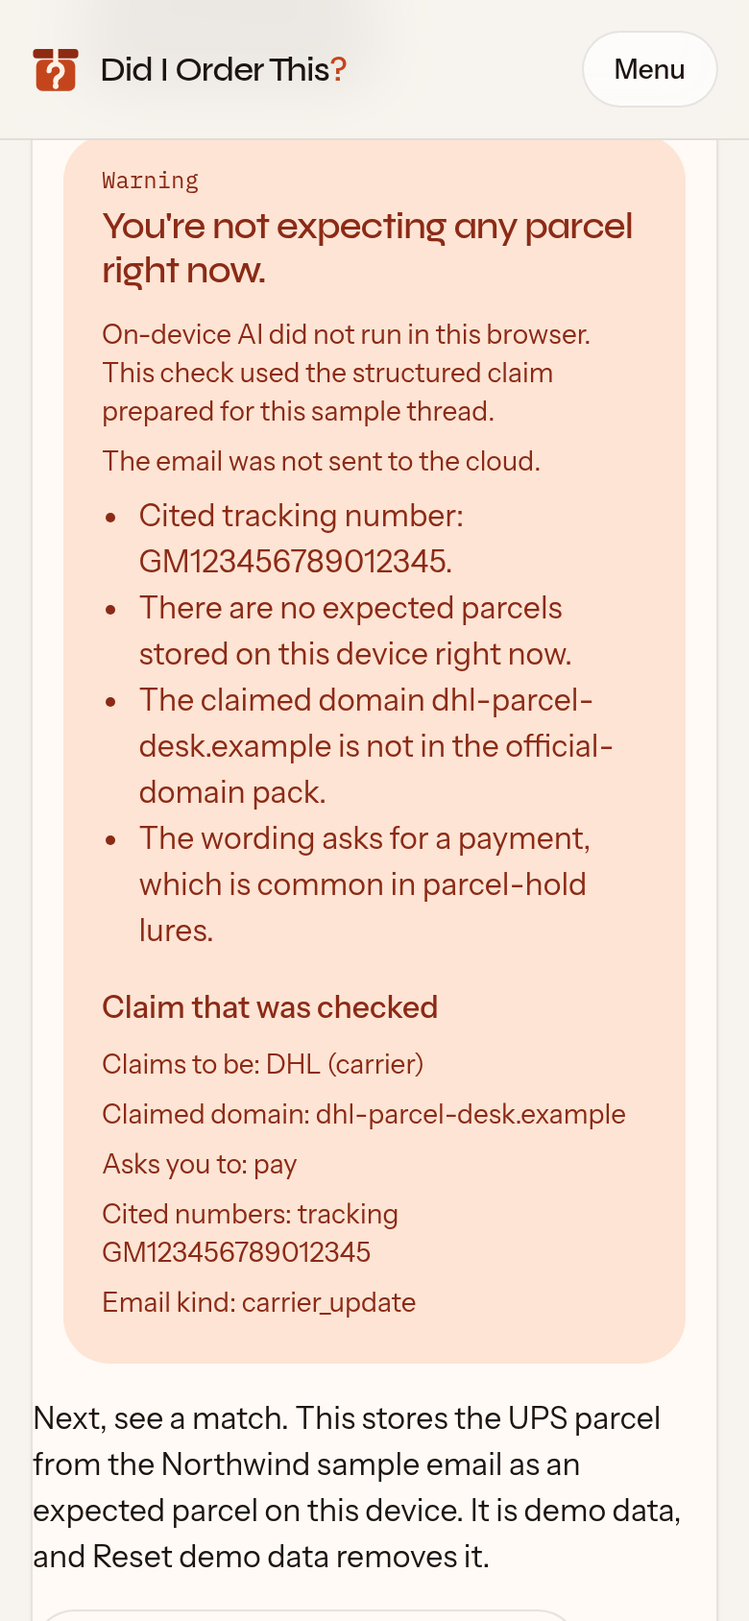
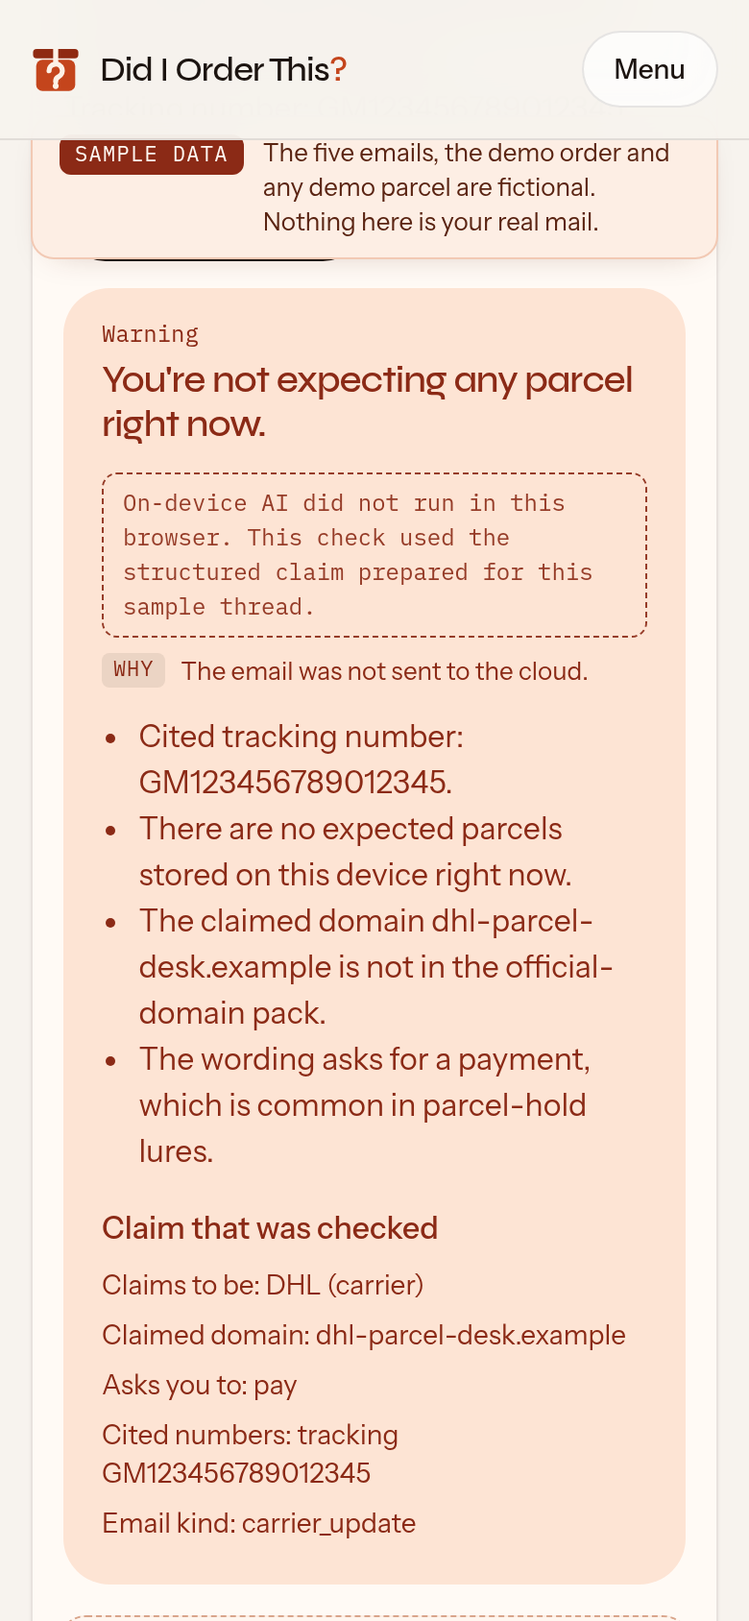
Screenshots retaken after UI-NEXT; README, TESTING and UI-NEXT updated with new run ids, Lighthouse, test count and two new UI items

diff --git a/README.md b/README.md
@@ -3,7 +3,7 @@
 **For judges:** open the [sample inbox](https://did-i-order-this.vercel.app/app/), click the first thread (**DHL Express Desk**, **Your parcel is held. Pay the release fee.**), click **Check this email**, and read the verdict: **You're not expecting any parcel right now.** Then click **Load the matching shipment demo** and check the UPS email: **This tracking number matches a shipment you are expecting.** No login.
 
 <p align="center">
-  <img src="docs/images/sample-verdict-prepared.png" width="260" alt="The live sample inbox at 390-pixel width after Do not send: Warning, You're not expecting any parcel right now, with the note that on-device AI did not run and the structured claim prepared for this sample thread was used, plus the reasons and the claim that was checked.">
+  <img src="docs/images/sample-verdict-prepared.png" width="260" alt="The live sample inbox at 390-pixel width after Do not send, under the Sample data bar: Warning, You're not expecting any parcel right now, with the note that on-device AI did not run and the structured claim prepared for this sample thread was used, plus the reasons and the claim that was checked.">
 </p>
 
 **Check a delivery or billing email against the orders and tracking numbers on your own device, before you click.**
@@ -24,7 +24,7 @@ A parcel or billing email can ask you to pay a fee or open a link, and a fake DH
 
 This is the live app at [did-i-order-this.vercel.app/app](https://did-i-order-this.vercel.app/app/). No account and nothing to install. It starts with demo data: **1 order and 0 expected parcels are stored on this device.** If the count is different, click **Reset demo data**.
 
-1. Click the first thread, **DHL Express Desk**, **Your parcel is held. Pay the release fee.**, then **Check this email**.
+1. Click the first thread, **DHL Express Desk**, **Your parcel is held. Pay the release fee.** (on a phone the threads are one row you can swipe), then **Check this email**.
 2. In Chrome with on-device AI (Gemini Nano) there is no dialog. Everywhere else (for example phones, Firefox, Safari, or desktop Chrome without Nano) a dialog asks **Check this email in the cloud?** and says the cloud uses Google's free Gemini tier, so Google may keep this text and people at Google may review it. Click **Check in the cloud** or **Do not send**.
 3. You see **Warning** and **You're not expecting any parcel right now.** The line under it says how the email was read:
    - **Checked on this device** or **Checked in the cloud** when the AI read it.
@@ -42,13 +42,13 @@ To check the code itself: `npm ci`, then `npm run verify`. It prints `PASS` or `
 
 ## Proof It's Real
 
-- **On-device run on the current build, public GitHub runner:** [nano-film run 43950308139](https://github.com/ohjay-official/nano-film/actions/runs/43950308139) (16 Nov 2026, 21:31 Africa/Lagos, production at `9c6e0cc`) loaded the live `/app/` page in Chrome 157.0.8103.50 with Gemini Nano and got **Checked on this device** (`inferenceSource` `on_device`), **Warning**, **You're not expecting any parcel right now.**, and no cloud consent. Earlier runs: [43947306478](https://github.com/ohjay-official/nano-film/actions/runs/43947306478) (16 Nov, `9098021`), [43682923396](https://github.com/ohjay-official/nano-film/actions/runs/43682923396) (15 Nov) and [43219012008](https://github.com/ohjay-official/nano-film/actions/runs/43219012008) (12 Nov). Private 2 vCPU runners cannot run Nano, so the proof runs from the public `ohjay-official/nano-film` repo; this repo keeps a copy of the workflow at `.github/workflows/on-device-demo.yml`.
-- **Extension on-device run, public GitHub runner:** [nano-film run 43952581780](https://github.com/ohjay-official/nano-film/actions/runs/43952581780) (16 Nov 2026, 21:44 Africa/Lagos, production at `9c6e0cc`) downloaded the live judge zip, loaded it unpacked into Chrome 157.0.8103.50 with Gemini Nano, opened the side panel on a local Gmail-thread fixture, and got **Checked on this device** (`on_device`), the same headline, and no cloud consent. The runner adds `http://127.0.0.1:8123/*` to the installed manifest's content script matches because it cannot sign into Gmail; the JavaScript in the zip is unchanged. One run in between ([43950314547](https://github.com/ohjay-official/nano-film/actions/runs/43950314547)) failed before the extension loaded, because Chrome on that runner could not start a Nano session; the rerun passed. Earlier passes: [43947314820](https://github.com/ohjay-official/nano-film/actions/runs/43947314820) (16 Nov) and [43685102643](https://github.com/ohjay-official/nano-film/actions/runs/43685102643) (15 Nov).
+- **On-device run on the current build, public GitHub runner:** [nano-film run 43968899989](https://github.com/ohjay-official/nano-film/actions/runs/43968899989) (16 Nov 2026, 23:20 Africa/Lagos, production at `f87d165`, after the UI-NEXT commits) loaded the live `/app/` page in Chrome 157.0.8103.50 with Gemini Nano and got **Checked on this device** (`inferenceSource` `on_device`), **Warning**, **You're not expecting any parcel right now.**, and no cloud consent. The run just before it ([43967837755](https://github.com/ohjay-official/nano-film/actions/runs/43967837755)) failed before the page check, because Chrome on that runner could not start a Nano session; the rerun passed. Earlier runs: [43950308139](https://github.com/ohjay-official/nano-film/actions/runs/43950308139) (16 Nov, `9c6e0cc`), [43947306478](https://github.com/ohjay-official/nano-film/actions/runs/43947306478) (16 Nov, `9098021`), [43682923396](https://github.com/ohjay-official/nano-film/actions/runs/43682923396) (15 Nov) and [43219012008](https://github.com/ohjay-official/nano-film/actions/runs/43219012008) (12 Nov). Private 2 vCPU runners cannot run Nano, so the proof runs from the public `ohjay-official/nano-film` repo; this repo keeps a copy of the workflow at `.github/workflows/on-device-demo.yml`.
+- **Extension on-device run, public GitHub runner:** [nano-film run 43967844787](https://github.com/ohjay-official/nano-film/actions/runs/43967844787) (16 Nov 2026, 23:15 Africa/Lagos, production at `f87d165`) downloaded the live judge zip, loaded it unpacked into Chrome 157.0.8103.50 with Gemini Nano, opened the side panel on a local Gmail-thread fixture, and got **Checked on this device** (`on_device`), the same headline, and no cloud consent. The runner adds `http://127.0.0.1:8123/*` to the installed manifest's content script matches because it cannot sign into Gmail; the JavaScript in the zip is unchanged. Earlier passes: [43952581780](https://github.com/ohjay-official/nano-film/actions/runs/43952581780) (16 Nov, `9c6e0cc`, after one runner that could not start Nano, [43950314547](https://github.com/ohjay-official/nano-film/actions/runs/43950314547)), [43947314820](https://github.com/ohjay-official/nano-film/actions/runs/43947314820) (16 Nov) and [43685102643](https://github.com/ohjay-official/nano-film/actions/runs/43685102643) (15 Nov).
 - **What Nano actually returned** in run 43947306478: the display name **DHL Express Desk** as the domain and the fee **$2.99** as the only cited number, missing the tracking number. The verdict was still right because the claim said carrier and no parcel was expected. Since then, `reconcileClaim()` in `packages/core/src/reconcile.ts` fills both gaps from the email text in code (sender domain from the From line, tracking-shaped numbers from the body), so the UPS match no longer depends on the model spotting the number. In run 43950308139, on the build with `reconcileClaim()`, the checked claim showed the domain `dhl-parcel-desk.example` and the tracking number GM123456789012345.
 - **Cloud check on the current build:** not recorded yet. The build machine's automated Chrome is rejected by App Check (reCAPTCHA Enterprise), and the page then shows the prepared-claim note with **The cloud check could not run. This page could not prove it is the real site (App Check). Reload the page and try again.** A real-phone cloud test is pending.
-- **Tests:** 161 unit tests (core 66, web 82, extension 13), re-run 16 Nov 2026 (Africa/Lagos). `npm test` runs them. Core coverage the same day: 96.95% statements (446/460) and 89.61% branches (345/385), gated at 95% statements and 85% branches in `packages/core/vitest.config.ts`.
+- **Tests:** 164 unit tests (core 66, web 85, extension 13), re-run 16 Nov 2026 (Africa/Lagos). `npm test` runs them. Core coverage the same day: 96.95% statements (446/460) and 89.61% branches (345/385), gated at 95% statements and 85% branches in `packages/core/vitest.config.ts`.
 - **CI:** `.github/workflows/ci.yml` runs `npm run verify -- --offline` on every push to `main` and on pull requests.
-- **Lighthouse** (mobile, production `9c6e0cc`, 16 Nov 2026, run from the build machine): Best Practices and SEO 100 on all 9 routes; Accessibility 100 on 8 routes and 91 on `/features/` (a colour-contrast and an ARIA-label issue, handed to the UI owner); Performance 80 on the home page (87 in an earlier run the same day; the home page script blocks the main thread for about 0.8 seconds), 99 or 100 on the other 8.
+- **Lighthouse** (mobile, production `c94c806`, 16 Nov 2026, run from the build machine): Accessibility, Best Practices and SEO 100 on all 9 routes; Performance 99 or 100 on all 9 (home 99, Total Blocking Time 20 ms). Earlier the same day the home page scored 80 and `/features/` Accessibility 91; both were fixed by the UI owner.
 - **No real users yet.** Three testers are scheduled for 26 to 28 Nov 2026.
 
 ## What's New Here
@@ -108,7 +108,7 @@ npm run verify
 npm run verify -- --offline
 ```
 
-`npm run verify` checks the Node version, then runs the unit tests, the core coverage gate, typecheck, lint, a guard that product code must not call Chrome's Prompt API directly, the web and extension builds, the extension zip, a secrets scan of tracked files and git history, a bundle scan for App Check debug tokens, a dependency audit, and live-site checks (routes, the zip, and security headers). Each line prints `PASS` or `FAIL`. On 16 Nov 2026 (Africa/Lagos), a fresh clone of `main` at `9c6e0cc` ran `npm ci` plus `npm run verify` in 31 seconds on Node 24.22.1 and printed PASS on all 19 checks (Node 22.22.0 gave the same 19 PASS on `9098021`).
+`npm run verify` checks the Node version, then runs the unit tests, the core coverage gate, typecheck, lint, a guard that product code must not call Chrome's Prompt API directly, the web and extension builds, the extension zip, a secrets scan of tracked files and git history, a bundle scan for App Check debug tokens, a dependency audit, and live-site checks (routes, the zip, and security headers). Each line prints `PASS` or `FAIL`. On 16 Nov 2026 (Africa/Lagos), a fresh clone of `main` at `c94c806` ran `npm ci` plus `npm run verify` in 38 seconds on Node 22.22.3 and printed PASS on all 19 checks.
 
 
 </details>
@@ -158,8 +158,8 @@ Permissions: `storage` and `sidePanel` only, plus a content script on `https://m
 
 <p align="center">
   <img src="docs/images/home.png" width="160" alt="The live home page at 390-pixel width, with the headline Got a parcel email? See if it's yours, and a Check field.">
-  <img src="docs/images/sample-inbox.png" width="160" alt="The sample inbox list on the live site at 390-pixel width, showing five demo threads and the line 1 order and 0 expected parcels are stored on this device.">
-  <img src="docs/images/cloud-consent.png" width="160" alt="The cloud consent dialog on the live sample inbox at 390-pixel width, titled Check this email in the cloud, with Check in the cloud and Do not send buttons.">
+  <img src="docs/images/sample-inbox.png" width="160" alt="The sample inbox on the live site at 390-pixel width: the Sample data bar, the line 1 order and 0 expected parcels are stored on this device, a swipeable row of threads with DHL Express Desk open, and the Check this email button on the first screen.">
+  <img src="docs/images/cloud-consent.png" width="160" alt="The cloud consent dialog on the live sample inbox at 390-pixel width, titled Check this email in the cloud, with Check in the cloud and Do not send buttons; keyboard focus starts on Do not send.">
   <img src="docs/images/ups-match-prepared.png" width="160" alt="The UPS sample email after Load the matching shipment demo, at 390-pixel width: Safe, This tracking number matches a shipment you are expecting, using the structured claim prepared for this sample thread.">
 </p>
 
@@ -251,7 +251,7 @@ git log --reverse --format='%h %ad %s' --date=iso | head -3
   - **Demonstration video:** required on the Devpost form, at most 3 minutes, on YouTube. `TBD-post-build: film URL`
   - **No production secrets in the repo, form, or testing instructions:** `.env.example` uses placeholders only; `npm run verify` scans for secrets.
 
-- **AI code:** Grok Bot wrote the product code, the tests, the docs, and the verify pipeline, directed by Oh-Jay. Claude did the planning on 11 and 12 Nov 2026, and Claude Opus 5.5 landed the v7 UI commits on `main` on 15 Nov 2026 (`16fc66e`, `b1f076d`, `8bb5936`, each with a Co-Authored-By line); further UI and UX work is Claude's. Oh-Jay chose the idea, wrote the product and design briefs, made the product decisions, and reviewed every build on his phone.
+- **AI code:** Grok Bot wrote the product code, the tests, the docs, and the verify pipeline, directed by Oh-Jay. Claude did the planning on 11 and 12 Nov 2026, and Claude Opus 5.5 landed the v7 UI commits on `main` on 15 Nov 2026 (`16fc66e`, `b1f076d`, `8bb5936`) and the ten UI-NEXT commits on 16 Nov 2026 (`184f42f` to `f87d165`), each with a Co-Authored-By line; UI and UX work is Claude's. Oh-Jay chose the idea, wrote the product and design briefs, made the product decisions, and reviewed every build on his phone.
 - **Earlier work reused:** the on-device warm-up approach in `e2e/` follows Oh-Jay's own `nano-probe` test from 12 Nov 2026. Photos, the globe texture, the hands, and the freight clip are media files Oh-Jay supplied. The CSS follows parts of the unslop design checklist by Damir Sokolovsky (CC BY 4.0), credited in `web/src/styles-v6.css`.
 - **The live site will stay up through judging and after.**
 
@@ -269,7 +269,7 @@ Services: Firebase AI Logic with the Gemini Developer API (model `gemini-3.5-fla
 - **12 Nov 2026 (12 commits):** core verdict engine and tests; order-history import, limited check, Chrome extension, and App Check providers; the on-device workflow and Nano warm-up; first multi-page site, rebuilt toward a live checker.
 - **13 and 14 Nov 2026:** no commits.
 - **15 Nov 2026 (15 commits, 3 of them Claude's UI):** v6 landing (globe, freight scroll, night footer) and VP9 video fallback; v6.1 real media and footer; v6.2 logo, favicons, per-page meta and OG images, JSON-LD, privacy policy, Vercel Analytics and Speed Insights, client cloud budget, contrast fixes, faster hero; backend pass: extension messaging checks and fewer permissions, judge zip, plain-language AI errors, the free-tier review notice on the consent dialog, CSP and security headers, lint, more tests with a coverage gate, `npm run verify`; README and the extension on-device proof citation; Claude's v7 UI commits.
-- **16 Nov 2026:** judge-demo fixes (fail fast without an on-device model, client cloud cap raised to 10 a minute, tab-session memory for a cloud yes, the matching shipment demo loader, the prepared-claim fallback on sample threads, a 20-second cloud timeout, the `/extension-demo/` test page, `docs/TESTING.md`); Node 22.22 as the minimum; this README; the pre-submit test run and its fixes (lookalike-domain warning, claim gap filling, 20,000-character model input cap, consent dialog keyboard); a pre-submit QA pass that stopped a re-imported order history from adding duplicate orders and shipments, and fixed the privacy policy to name the real consent button.
+- **16 Nov 2026:** judge-demo fixes (fail fast without an on-device model, client cloud cap raised to 10 a minute, tab-session memory for a cloud yes, the matching shipment demo loader, the prepared-claim fallback on sample threads, a 20-second cloud timeout, the `/extension-demo/` test page, `docs/TESTING.md`); Node 22.22 as the minimum; this README; the pre-submit test run and its fixes (lookalike-domain warning, claim gap filling, 20,000-character model input cap, consent dialog keyboard); a pre-submit QA pass that stopped a re-imported order history from adding duplicate orders and shipments, and fixed the privacy policy to name the real consent button; Claude's ten UI-NEXT commits (Sample data bar, swipeable thread row on phones, styled notes and focus ring, extension test page link and style, Real UPS chip note, `/features/` contrast, faster home page, consent mockups matching the real dialog); a fix so the homepage Real UPS chip keeps its demo shipment on a brand-new device.
 
 </details>
 

diff --git a/docs/TESTING.md b/docs/TESTING.md
@@ -1,6 +1,6 @@
 # Testing Did I Order This?
 
-Do-this, see-this steps for judges and testers. Every quoted string below was read off the screen on 16 Nov 2026 (Africa/Lagos), first in a local build and then again on the live site after the merge (`72f7212`), unless the step says otherwise. Steps 1 (Path C) and 2 were walked again on the live site at `9c6e0cc` the same evening, at 390 pixels, with the same strings. No keys, tokens or accounts are needed.
+Do-this, see-this steps for judges and testers. Every quoted string below was read off the screen on 16 Nov 2026 (Africa/Lagos), first in a local build and then again on the live site after the merge (`72f7212`), unless the step says otherwise. Steps 1 (Path C) and 2 were walked again on the live site at `9c6e0cc` the same evening, at 390 pixels, with the same strings, and again after the UI update at `f87d165` (16 Nov, 23:00 to 23:30 Africa/Lagos). Section 4 was re-checked at `c94c806`. No keys, tokens or accounts are needed.
 
 Live site: https://did-i-order-this.vercel.app (sample inbox at `/app/`).
 
@@ -8,13 +8,13 @@ Live site: https://did-i-order-this.vercel.app (sample inbox at `/app/`).
 
 Open https://did-i-order-this.vercel.app/app/. The header says **1 order and 0 expected parcels are stored on this device.** If it shows a different count (for example after you tried the homepage chips), click **Reset demo data** first.
 
-1. Click the first thread, **DHL Express Desk**, **Your parcel is held. Pay the release fee.**, then click **Check this email**.
+1. Click the first thread, **DHL Express Desk**, **Your parcel is held. Pay the release fee.**, then click **Check this email**. On a phone the threads are one row you can swipe sideways, and **Check this email** is on the first screen; the verdict appears just below it, so scroll down a little.
 2. What happens next depends on your browser. Pick the path that matches.
 
 ### Path A: Chrome with on-device AI (Gemini Nano)
 
 - No dialog appears. You see **Warning**, **You're not expecting any parcel right now.**, and **Checked on this device**.
-- Recorded on the current build on a GitHub runner with Nano: nano-film run 43950308139 (16 Nov 2026, production `9c6e0cc`). The machine used for the other steps has no Gemini Nano.
+- Recorded on the current build on a GitHub runner with Nano: nano-film run 43968899989 (16 Nov 2026, production `f87d165`). The machine used for the other steps has no Gemini Nano.
 - To turn on-device AI on in desktop Chrome: the hackathon FAQ says to open `chrome://flags`, search for **Gemma 4 for Built-in AI**, enable it, and relaunch. The runner instead enables `chrome://flags/#optimization-guide-on-device-model` and `chrome://flags/#prompt-api-for-gemini-nano`. `chrome://on-device-internals` shows whether the model is ready. Chrome's hardware requirements apply.
 
 ### Path B: no on-device AI, you allow the cloud
@@ -55,7 +55,7 @@ After any result in step 1, a card says **Next, see a match. This stores the UPS
 
 3. Click **Load the matching shipment demo**. The UPS thread opens, the header says **1 order and 1 expected parcel are stored on this device.**, and a note says **Matching shipment demo loaded. UPS 1Z999AA10123456784 is now an expected parcel on this device (demo data). Check this UPS email next.**
 4. Click **Check this email**. Expect **Safe** and **This tracking number matches a shipment you are expecting.**
-5. Open the last thread, **Duty payment required for your shipment**, and check it. Expect **Warning** and **This tracking number is not one of your shipments.**
+5. Open the last thread, **Duty payment required for your shipment** (on a phone, swipe the thread row to reach it), and check it. Expect **Warning** and **This tracking number is not one of your shipments.**
 6. Optional: **Streamhut Billing**, **Your Streamhut invoice is due** gives **Neutral** and **You have no history with this sender.**
 7. Click **Reset demo data**. You see **Demo data reset. There are no expected parcels.** and the header is back to **1 order and 0 expected parcels are stored on this device.**
 
@@ -74,7 +74,7 @@ Paste an email that is not one of the samples and click **Check pasted email**. 
 On https://did-i-order-this.vercel.app, in a browser without on-device AI and with the default "on this device" mode:
 
 - **Fake DHL**: **You're not expecting any parcel right now.** with **On-device AI did not run in this browser. This check used the structured claim prepared for this sample.**
-- **Real UPS**: the chip first stores the matching UPS shipment. Expect **This tracking number matches a shipment you are expecting.** and **Demo data: before this check, the chip saved UPS parcel 1Z999AA10123456784 from the Northwind sample as an expected parcel on this device. Reset demo data in the sample inbox removes it.**
+- **Real UPS**: the chip first stores the matching UPS shipment. This works even as the very first tap on a brand-new device (fixed in `c94c806`). Expect **This tracking number matches a shipment you are expecting.** and **Demo data: before this check, the chip saved UPS parcel 1Z999AA10123456784 from the Northwind sample as an expected parcel on this device. Reset demo data in the sample inbox removes it.**
 - After **Real UPS**, the **Fake DHL** chip says **This tracking number is not one of your shipments.**, because a parcel is now expected. **Reset demo data** in the sample inbox brings back the first headline.
 
 ## 5. Chrome extension (desktop Chrome 138 or later)
@@ -82,7 +82,7 @@ On https://did-i-order-this.vercel.app, in a browser without on-device AI and wi
 1. Download https://did-i-order-this.vercel.app/downloads/did-i-order-this-extension-0.1.0.zip and unzip it. If you downloaded it before 16 Nov 2026, download it again: the test page below needs the new copy.
 2. Open `chrome://extensions`, turn on **Developer mode**, click **Load unpacked**, and pick the inner `did-i-order-this-extension` folder.
 3. Open https://did-i-order-this.vercel.app/extension-demo/. It is labelled **Extension test fixture.** and says it is not Gmail. Open the extension's side panel from the toolbar. It shows the open sample email and **Check this email**. The buttons on the page switch between the five sample emails.
-4. With Gemini Nano you should see **Checked on this device** and the verdict (recorded on a runner with Nano on 16 Nov 2026 against the live zip, nano-film run 43952581780, using a local copy of this kind of page).
+4. With Gemini Nano you should see **Checked on this device** and the verdict (recorded on a runner with Nano on 16 Nov 2026 against the live zip, nano-film run 43967844787, using a local copy of this kind of page).
 5. Without Nano you see **Error** and **The AI read could not run. On-device AI is not available in this browser. This extension does not send mail to the cloud. Open https://did-i-order-this.vercel.app to check in the cloud after you agree, or run a limited check here.** Then **Run a limited check (no AI)** gives the limited check.
 
 The side panel and fixture were run on this box with the extension loaded unpacked and the fixture served at its live address. The extension is built to read an open Gmail thread at `mail.google.com`; a signed-in Gmail thread was not tested on this machine.

diff --git a/docs/UI-NEXT.md b/docs/UI-NEXT.md
@@ -17,20 +17,28 @@ Repo `ohjay-official/did-i-order-this`, `main`. Full background: `docs/HANDOFF-u
 | `/extension-demo/` | Hosted extension test page ("Extension test fixture."), five sample emails, Gmail-like `h2.hP` subject. Needs a light style pass; must keep `h2.hP` and the sample text. |
 | Homepage Real UPS chip | Now stores the matching shipment first and shows "This chip stored the matching UPS shipment on this device first, as demo data. Reset demo data in the sample inbox removes it." |
 
-## Pending UI items, in priority order
+## UI items 1 to 10 (16 Nov)
 
-1. Demo bar on every `/app/` screen saying it is sample data (playbook asks for it).
-2. 390 px thread list: shorter, so the open email and **Check this email** are visible sooner on a phone.
-3. Style the loader card, the reason line, the remembered-consent note and **Ask me each time**.
-4. Link from `/extension/` to `/extension-demo/` (one line in the install steps).
-5. Real UPS chip copy review.
-6. Lighthouse `/features/` accessibility 91 (16 Nov):
+1. **DONE** (`184f42f`, checked live by Grok 16 Nov). Demo bar on every `/app/` screen saying it is sample data (playbook asks for it).
+2. **DONE** (`194ea5a`, `b505395`, `2fd34c2`, checked live by Grok 16 Nov). 390 px thread list: shorter, so the open email and **Check this email** are visible sooner on a phone.
+3. **DONE** (`2dfa02d`, checked live by Grok 16 Nov). Style the loader card, the reason line, the remembered-consent note and **Ask me each time**.
+4. **DONE** (`6ed76af`, checked live by Grok 16 Nov). Link from `/extension/` to `/extension-demo/` (one line in the install steps).
+5. **DONE** (`c006713`, checked live by Grok 16 Nov). Real UPS chip copy review.
+6. **DONE** (`8455539`; Grok re-run on production: /features/ Accessibility 100). Lighthouse `/features/` accessibility 91 (16 Nov):
    - `a.belt-btn` and `span.belt-pill-num`: white on `#e24a2b` is 4.0:1, needs 4.5:1.
    - `div.belt` has `aria-label` with no role. Add a role (for example `role="region"`) or drop the label.
-7. Home Performance 80 on a re-run at `9c6e0cc` (87 earlier the same day), mobile Lighthouse: LCP 2.2 s, CLS 0, Total Blocking Time 780 ms. `main-*.js` takes about 3.7 s of throttled CPU at boot (globe and hero). Lazy-start the globe after first paint or on idle.
-8. Consent mock on `/privacy/` (line ~108) and `/features/` (line ~96) still says **Send this email to the cloud?** and **Send this email**. The real dialog says **Check this email in the cloud?**, **Check in the cloud**, **Do not send**, plus the free-tier review sentence. Match the mock to the real dialog (Grok fixed only the policy fine print in PR #6).
+7. **DONE** (`a6c7d5f`; Grok re-run on production: home Performance 98 to 99, Total Blocking Time 0 to 20 ms). Home Performance 80 on a re-run at `9c6e0cc` (87 earlier the same day), mobile Lighthouse: LCP 2.2 s, CLS 0, Total Blocking Time 780 ms. `main-*.js` takes about 3.7 s of throttled CPU at boot (globe and hero). Lazy-start the globe after first paint or on idle.
+8. **DONE** (`f87d165`, checked live by Grok 16 Nov). Consent mock on `/privacy/` (line ~108) and `/features/` (line ~96) still says **Send this email to the cloud?** and **Send this email**. The real dialog says **Check this email in the cloud?**, **Check in the cloud**, **Do not send**, plus the free-tier review sentence. Match the mock to the real dialog (Grok fixed only the policy fine print in PR #6).
 9. Phone checks only Oh-Jay can run, worth a look while styling: X, WhatsApp and Telegram in-app browsers on `/app/`; iPhone Safari safe areas. Grok's headless pass at 390 px in dark mode and with 200% root font size found no sideways scroll on 11 routes, but did not judge looks.
-10. After any UI change: retake the README screenshots in `docs/images/` at 390 px (Grok can do the capture), and re-run nano-film to confirm selectors.
+10. **DONE 16 Nov:** README screenshots retaken at 390 px from production `f87d165`; nano-film site run 43968899989 and extension run 43967844787 passed with the selectors unchanged. After any UI change: retake the README screenshots in `docs/images/` at 390 px (Grok can do the capture), and re-run nano-film to confirm selectors.
+
+## New UI items for Claude (found by Grok, 16 Nov 2026, 23:00 to 23:40 Africa/Lagos, production `f87d165`)
+
+Grok did not change any of these. Measured headless at 390 x 844 (Chrome, mobile emulation).
+
+11. **Verdict lands below the fold on a phone.** After **Check this email** (and after **Do not send**), the page does not move: the result headline starts at about y = 830 of an 844 px screen, so only the edge of the verdict card shows. Suggest scrolling the result into view after a check, landing below the sticky header and Sample data bar, with no smooth scroll under `prefers-reduced-motion`. Keep `.result`, `.headline` and `.outcome` as they are.
+12. **Sticky header plus Sample data bar cover about 135 px (16%) of the screen while you read a verdict.** Grok's screenshots had to scroll an extra 80 px so the headline was not hidden under the bar. Consider a one-line bar once stuck, or letting it scroll away after the first screen while keeping the playbook's "sample data" label visible somewhere on every screen.
+13. **Still unverified:** the styled "Ask me each time" row (needs a real cloud check; Oh-Jay's S25 test will show it).
 
 ## Do not break (film and e2e)
 
